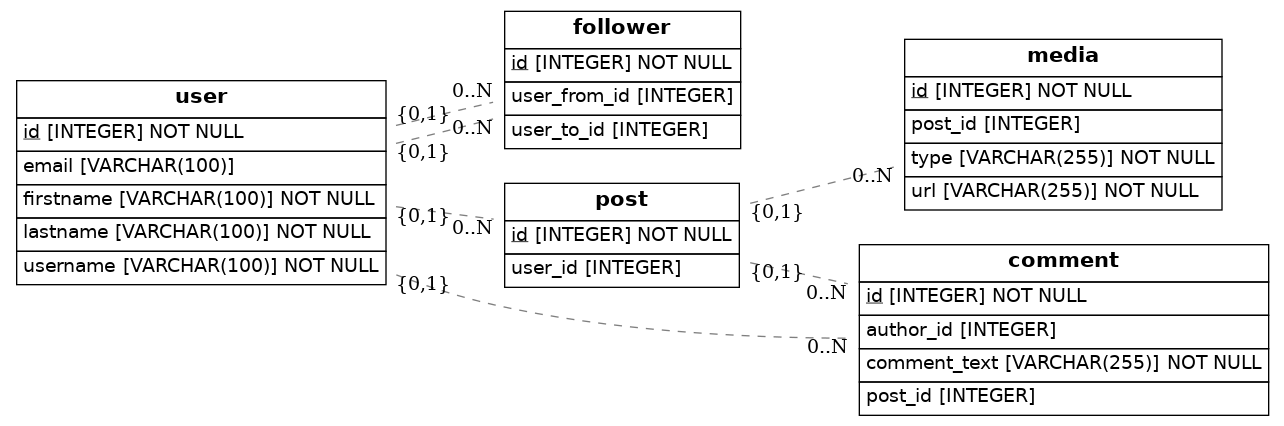
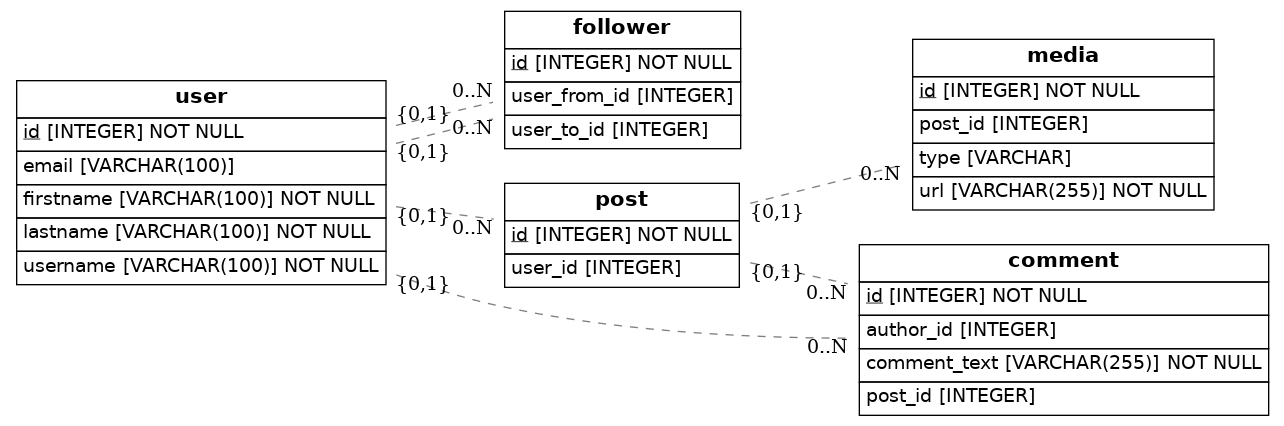
ADD Enum

diff --git a/src/models.py b/src/models.py
@@ -1,9 +1,10 @@
 import os
 import sys
-from sqlalchemy import Column, ForeignKey, Integer, String, Enum
+from sqlalchemy import Column, ForeignKey, Integer, String, Enum as SQLEnum
 from sqlalchemy.orm import relationship, declarative_base
 from sqlalchemy import create_engine
 from eralchemy2 import render_er
+from enum import Enum
 
 Base = declarative_base()
 
@@ -25,6 +26,9 @@ Base = declarative_base()
 #     person_id = Column(Integer, ForeignKey('person.id'))
 #     person = relationship(Person)
 
+class MediaType(Enum):
+    IMAGE: "image"
+    VIDEO: "video"
 
 class User(Base):
     __tablename__ = 'user'
@@ -65,7 +69,7 @@ class Comment(Base):
 class Media(Base):
     __tablename__ = 'media'
     id = Column(Integer, primary_key = True, nullable = False)
-    type = Column(String(255), nullable = False)
+    type = Column(SQLEnum(MediaType))
     url = Column(String(255), nullable = False)
     post_id = Column(Integer, ForeignKey("post.id")) 
 
